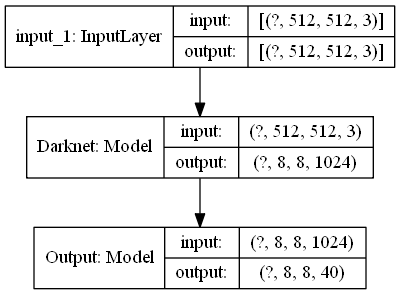
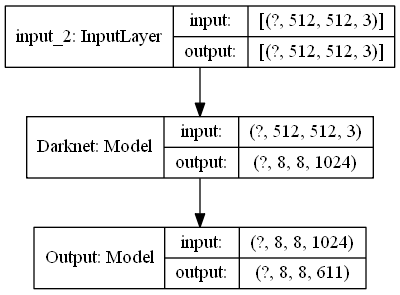
Begun on Training loop

Changed region(s): [[0.63, 0.8847, 0.87, 0.9458], [0.15, 0.0915, 0.18, 0.1525]]

diff --git a/Trainer.py b/Trainer.py
@@ -1,0 +1,80 @@
+import tensorflow as tf
+from tensorflow import keras
+from tensorflow.keras import layers
+import csv
+import numpy as np
+from os import walk
+import Models
+import Loss
+
+
+stage = 3
+
+print("Starting stage: {0}".format(stage))
+
+if stage == 1:
+    model = Models.Clasifier_For_Training()
+
+
+elif stage == 3:
+
+    batch_size = 64
+
+    model = Models.Yolo(2, 601)
+
+    def GetYoloPosition(posRatio):
+        gridsquare = (8*posRatio)//1
+        gridpos = (8*posRatio) - gridsquare
+        return int(gridsquare), gridpos
+
+    def Get_Batch_Targets(Position):
+        PATH = "D:\Dataset\OpenImage/annotations\Stage1"
+        
+        batch_targets = []
+
+        files = []
+
+        for (dirpath, dirnames, filenames) in walk(PATH):
+            files.append(filenames)
+
+        for file_num in range(Position, Position + batch_size):
+            with open(PATH+"\{0}".format(files[0][file_num])) as csv_file:
+                csv_reader = csv.DictReader(csv_file)
+
+                yolo_targets = np.zeros((8, 8, 2+2+601))
+
+                for line in csv_reader:
+                    xgridsquare, xgridpos = GetYoloPosition(float(line["xPos"]))
+                    ygridsquare, ygridpos = GetYoloPosition(float(line["yPos"]))
+                    yolo_targets[xgridsquare, ygridsquare, 0] = xgridpos 
+                    yolo_targets[xgridsquare, ygridsquare, 1] = ygridpos
+                    yolo_targets[xgridsquare, ygridsquare, 2] = float(line["width"])
+                    yolo_targets[xgridsquare, ygridsquare, 3] = float(line["height"])
+                    bbox_class = None
+
+                    with open("D:\Dataset\OpenImage/annotations/class-descriptions-boxable.csv") as csv_file:
+                        class_reader = csv.reader(csv_file, delimiter=",")
+
+                        for class_line in class_reader:
+                            line_num = 0
+                            if (class_line[0] == line["class"]):
+                                bbox_class = line_num
+                                break
+                            line_num += 1
+
+                    yolo_targets[xgridsquare, ygridsquare, bbox_class+4] = 1
+                
+                batch_targets.append(yolo_targets)
+        
+        return batch_targets
+                    
+    print(Get_Batch_Targets(0))
+
+
+    @tf.function
+    def TrainStep(input_images, target_outputs):
+        with tf.GradientTape as gen_tape:
+            outputs = model(input_images)
+
+            loss = Loss.Model_Loss(outputs)
+        

diff --git a/TargetProcessor.py b/TargetProcessor.py
@@ -1,8 +1,11 @@
 import csv
+import numpy as np
+from os import walk
 
-stage = 1
+stage = 2
 
 print("Starting stage {0}".format(stage))
+
 
 
 if stage == 1:
@@ -52,7 +55,46 @@ if stage == 1:
                 csv_writer.writeheader()
                 csv_writer.writerow({'xPos': str(xPos), 'yPos': str(yPos), 'width': str(width), 'height': str(height), 'class': bbox_class})
 
+elif stage == 2:
 
-            
 
+
+    PATH = "D:\Dataset\OpenImage/annotations\Stage1"
+
+    SAVE_PATH = "D:\Dataset\OpenImage/annotations\Stage2"
+
+    files = []
+
+    for (dirpath, dirnames, filenames) in walk(PATH):
+        files.append(filenames)
+
+    for filename in files[0]:
+        with open(PATH+"\{0}".format(filename)) as csv_file:
+            csv_reader = csv.DictReader(csv_file)
+
+            yolo_targets = np.zeros((8, 8, 2+2+601))
+
+            for line in csv_reader:
+                xgridsquare, xgridpos = GetYoloPosition(float(line["xPos"]))
+                ygridsquare, ygridpos = GetYoloPosition(float(line["yPos"]))
+                yolo_targets[xgridsquare, ygridsquare, 0] = xgridpos 
+                yolo_targets[xgridsquare, ygridsquare, 1] = ygridpos
+                yolo_targets[xgridsquare, ygridsquare, 2] = float(line["width"])
+                yolo_targets[xgridsquare, ygridsquare, 3] = float(line["height"])
+                bbox_class = None
+
+                with open("D:\Dataset\OpenImage/annotations/class-descriptions-boxable.csv") as csv_file:
+                    class_reader = csv.reader(csv_file, delimiter=",")
+
+                    for class_line in class_reader:
+                        line_num = 0
+                        if (class_line[0] == line["class"]):
+                            bbox_class = line_num
+                            break
+                        line_num += 1
+
+                yolo_targets[xgridsquare, ygridsquare, bbox_class+4] = 1
+                
+                np.save(SAVE_PATH + "/{0}.npy".format(filename), yolo_targets)
+        
 

diff --git a/Loss.py b/Loss.py
@@ -1,0 +1,23 @@
+import tensorflow as tf
+
+
+
+def IOU(box1, box2):
+    x1 = max(box1[0], box2[0])
+    y1 = max(box1[1], box2[1])
+    x2 = min(box1[2], box2[2])
+    y2 = min(box1[3], box2[3])
+
+    intersection = max(0, x2 - x1) * max(0, y2 - y1)
+
+    union = (box1[2] - box1[0]) * (box1[3] - box1[1]) + (box2[2] - box2[0]) * (box2[3] - box2[1]) - intersection
+
+    iou = intersection/union
+
+    return iou
+
+def Model_Loss(Model_Output, Target_Output):
+    loss = 0
+
+    return loss
+

diff --git a/Models.py b/Models.py
@@ -4,7 +4,7 @@ import tensorflow.keras.layers as layers
 
 
 NUM_BOXES = 2
-NUM_CLASSES = 30
+NUM_CLASSES = 601
 
 
 def Add_Convolutional_Layer(x, depth, size, stride = 1, batch_norm=True):
